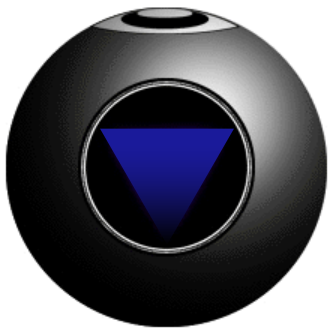
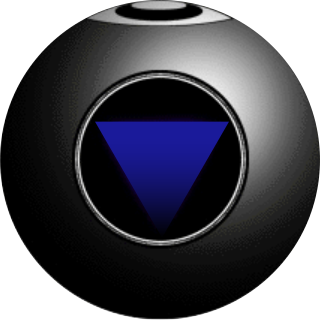
updated styling

Changed region(s): [[0.0, 0.0, 1.0, 1.0], [0.2188, 0.2188, 0.7812, 0.7812]]

diff --git a/eight_ball.html b/eight_ball.html
@@ -1,22 +1,23 @@
 <!DOCTYPE html>
 <html>
+
 <head>
-  <meta charset="utf-8">
-  <meta name="viewport" content="width=device-width">
+    <meta charset="utf-8">
+    <meta name="viewport" content="width=device-width">
     <link href="style.css" rel="stylesheet" type='text/css' />
-  <title>Magic Eight Ball</title>
+    <title>Magic Eight Ball</title>
 </head>
 
 <body>
     <h1>Please enter the question of your heart:</h1><br>
-  <input placeholder="Question" id="question" type="text"/>
-  <button onclick="giveAnswer()" id='magicAnswer'>Magic!</button>
-    <br>
-<br>
-    <ul id="userAnswer">
-    </ul>
+    <p style="text-align: center;"><input placeholder="Question" id="question" type="text" size="50" />
+        <button onclick="giveAnswer()" id='magicAnswer'>Magic!</button></p>
+    <div style="text-align: center;" id="output"></div>
     <script src="eight_ball.js">
-</script>
+
+
+    </script>
 </body>
 </body>
+
 </html>

diff --git a/style.css b/style.css
@@ -1,18 +1,25 @@
+
 body {
     background-image: url(eight-ball.png);
     background-repeat: no-repeat;
     background-position: center;
     background-attachment: fixed;
+    background-size: contain;
+    background-color: grey;
 }
+
 h1 {
     font-family: fantasy;
-    text-align: center;      
-}
-
-ul {
-    display: inline-flex;
-}
-
-img {
     text-align: center;
+    color: white;
+    text-shadow: 3px 3px black;
+}
+
+input {
+    text-align: center;
+}
+
+#output {
+    padding-top: 125px;
+    color: white;
 }

diff --git a/eight_ball.js b/eight_ball.js
@@ -28,6 +28,6 @@ function giveAnswer() {
             eightBall = 'You are in grave danger';
             break;
     }
-    var ul = document.getElementById("userAnswer")
- ul.innerHTML = "Your magic answer is: " + eightBall;
+    var div = document.getElementById("output")
+ div.innerHTML = eightBall;
 }
